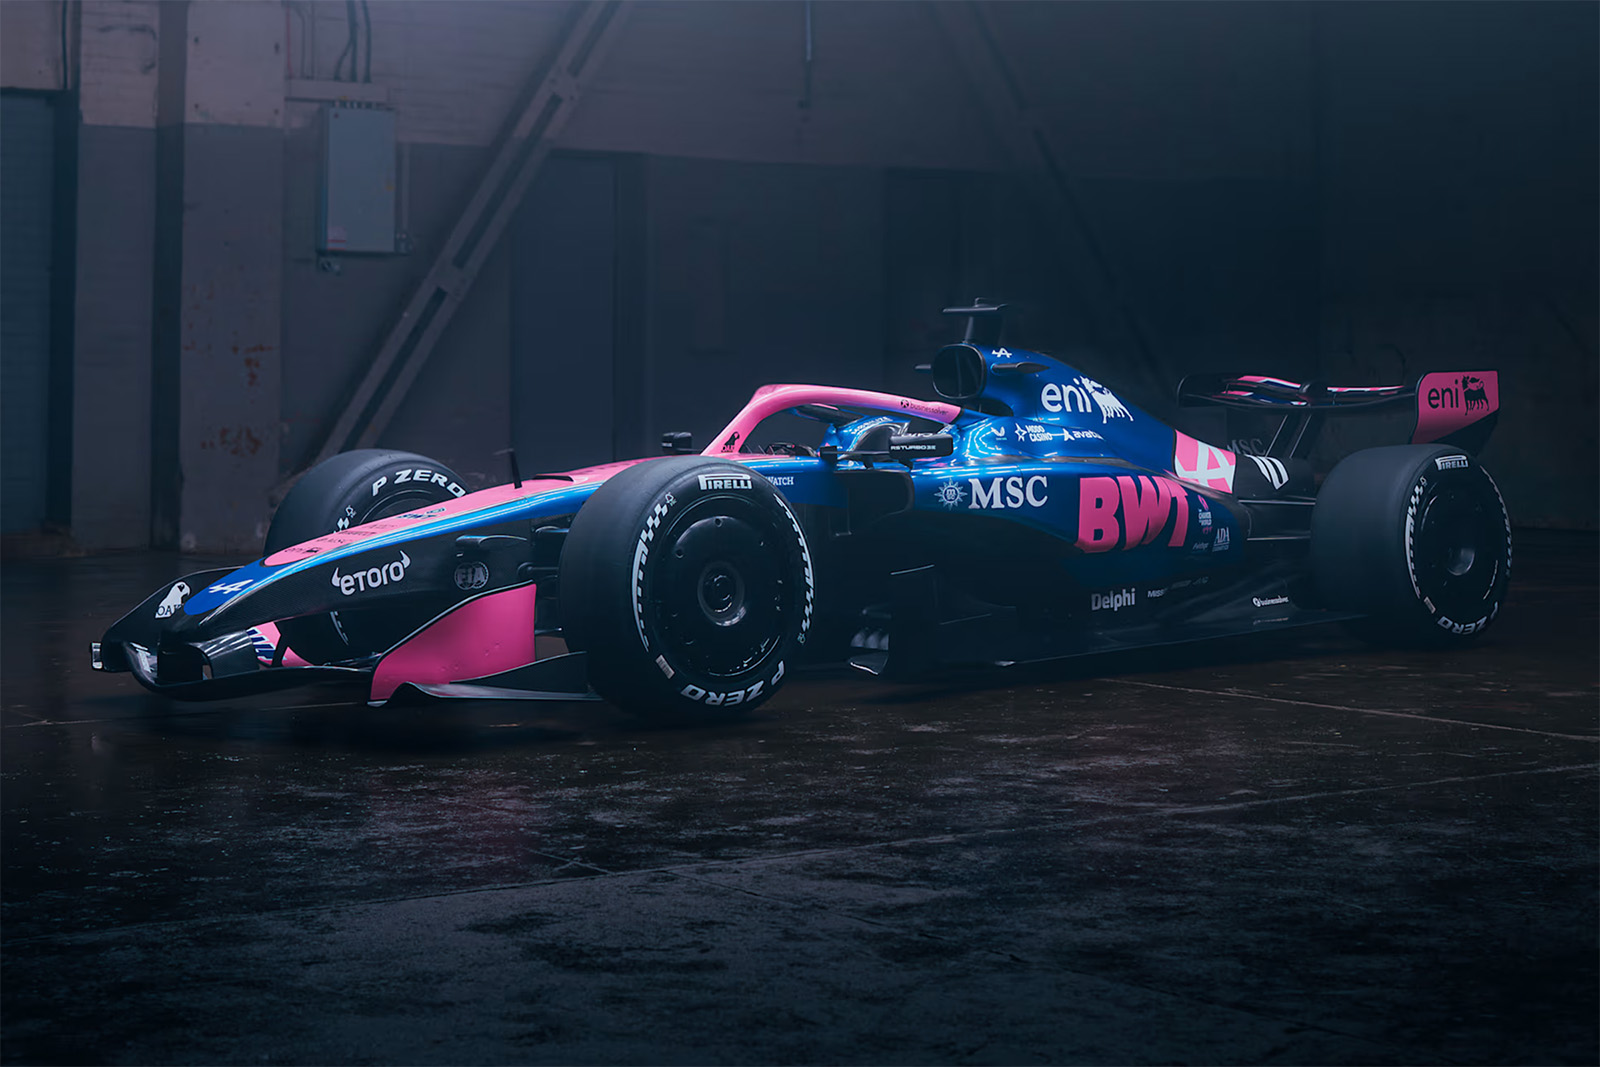
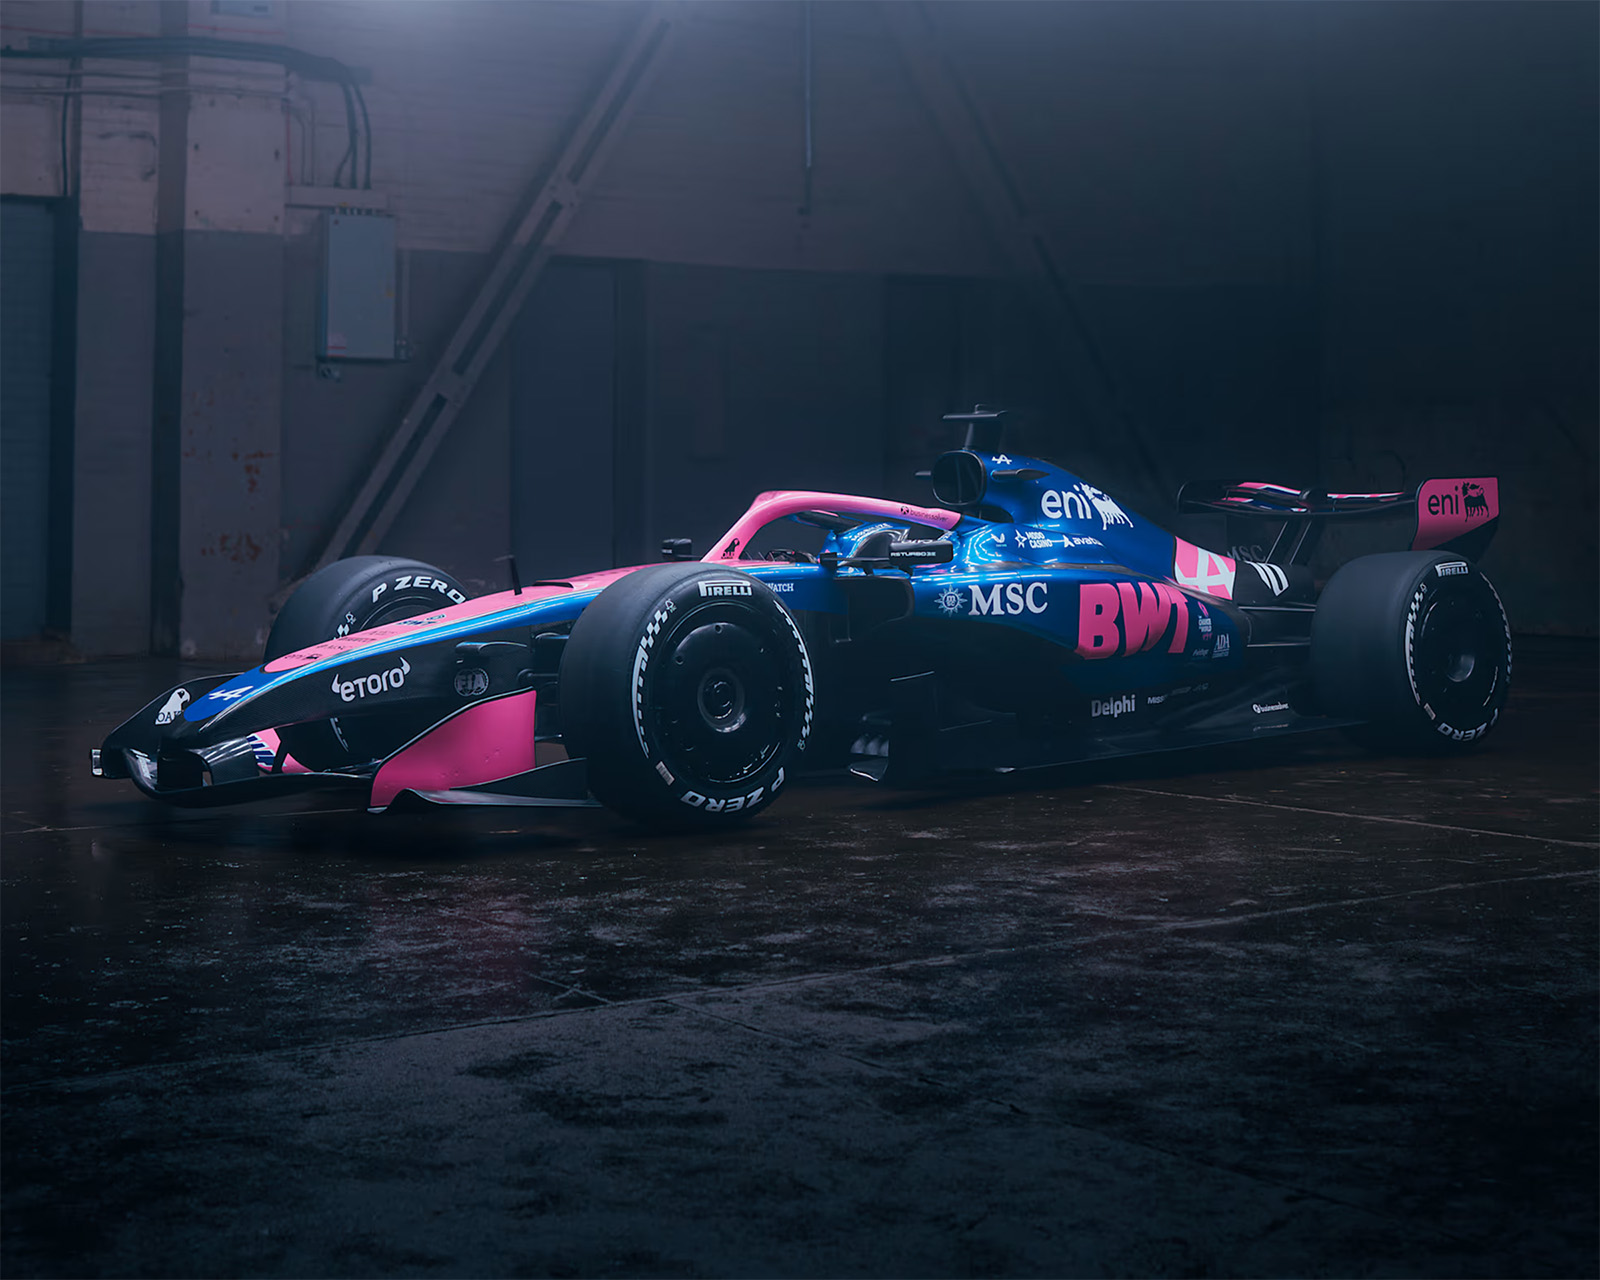
Update livery images and rank layout

diff --git a/app/page.tsx b/app/page.tsx
@@ -22,7 +22,6 @@ const teams: Team[] = [
   { id: 11, name: "Haas", slug: "haas", imagePath: "/images/2026-liveries/haas.jpg" },
 ];
 
-// Official 2026 livery colors (hex)
 const TEAM_COLOR: Record<string, string> = {
   alpine: "#00A1E8",
   "aston-martin": "#229971",
@@ -375,10 +374,6 @@ export default function Home() {
   const top1PctText =
     top1Pct == null ? "Loading…" : `${Math.max(0, Math.round(top1Pct))}% of fans also ranked this #1`;
 
-  // Image fit: show full car (no cropping) + preserve the dark studio bg
-  const IMG_FIT = "object-contain bg-black";
-  const IMG_POS = "object-center"; // tweak to: object-[center_45%] if you want slightly higher
-
   return (
     <main className="min-h-[100dvh] bg-black text-white flex flex-col items-center justify-center px-2 pt-3 pb-3">
       {view === "intro" && (
@@ -444,21 +439,17 @@ export default function Home() {
             <div className="text-xs text-gray-500 mt-1">Tap your favorite (quick confirmation before next matchup)</div>
           </div>
 
-          <div className="w-full flex-1 grid gap-3" style={{ gridTemplateRows: "1fr 1fr" }}>
+          {/* Important: no fixed 1fr/1fr rows. Height comes from the image ratio */}
+          <div className="w-full grid gap-3">
             <button
               type="button"
               disabled={locked}
               onClick={() => chooseWinner("top")}
-              className={`relative w-full h-full overflow-hidden rounded-2xl shadow-xl transition ${topRing} ${
+              className={`relative w-full overflow-hidden rounded-2xl shadow-xl transition ${topRing} ${
                 locked ? "opacity-95" : "active:scale-[0.995]"
               }`}
             >
-              <img
-                src={topTeam.imagePath}
-                alt={topTeam.name}
-                className={`absolute inset-0 h-full w-full ${IMG_FIT} ${IMG_POS}`}
-                draggable={false}
-              />
+              <img src={topTeam.imagePath} alt={topTeam.name} className="block w-full h-auto" draggable={false} />
               <div className="absolute inset-0 bg-black/20" />
 
               <div className="absolute top-3 right-3 z-10">
@@ -481,14 +472,14 @@ export default function Home() {
               type="button"
               disabled={locked}
               onClick={() => chooseWinner("bottom")}
-              className={`relative w-full h-full overflow-hidden rounded-2xl shadow-xl transition ${bottomRing} ${
+              className={`relative w-full overflow-hidden rounded-2xl shadow-xl transition ${bottomRing} ${
                 locked ? "opacity-95" : "active:scale-[0.995]"
               }`}
             >
               <img
                 src={bottomTeam.imagePath}
                 alt={bottomTeam.name}
-                className={`absolute inset-0 h-full w-full ${IMG_FIT} ${IMG_POS}`}
+                className="block w-full h-auto"
                 draggable={false}
               />
               <div className="absolute inset-0 bg-black/20" />
@@ -555,9 +546,7 @@ export default function Home() {
                 <div className="flex-1 min-w-0 flex flex-col justify-between">
                   <div>
                     <div className="text-xs text-gray-300/90">Your #1</div>
-                    <div className="mt-1 text-2xl font-extrabold tracking-tight leading-none">
-                      {top1?.name ?? "—"}
-                    </div>
+                    <div className="mt-1 text-2xl font-extrabold tracking-tight leading-none">{top1?.name ?? "—"}</div>
                     <div className="mt-2 text-xs text-gray-300/80">{top1PctText}</div>
 
                     {top1Counts && top1Counts.total > 0 && (
@@ -584,7 +573,7 @@ export default function Home() {
                   <img
                     src={top1?.imagePath}
                     alt={top1?.name ?? "Top"}
-                    className={`absolute inset-0 w-full h-full ${IMG_FIT} ${IMG_POS}`}
+                    className="absolute inset-0 w-full h-full object-contain bg-black"
                     draggable={false}
                   />
                   <div className="absolute inset-0 bg-black/15" />
@@ -632,7 +621,7 @@ export default function Home() {
                         <img
                           src={t.imagePath}
                           alt={t.name}
-                          className={`absolute inset-0 w-full h-full ${IMG_FIT} ${IMG_POS}`}
+                          className="absolute inset-0 w-full h-full object-contain bg-black"
                           draggable={false}
                         />
                         <div className="absolute inset-0 bg-black/18" />
